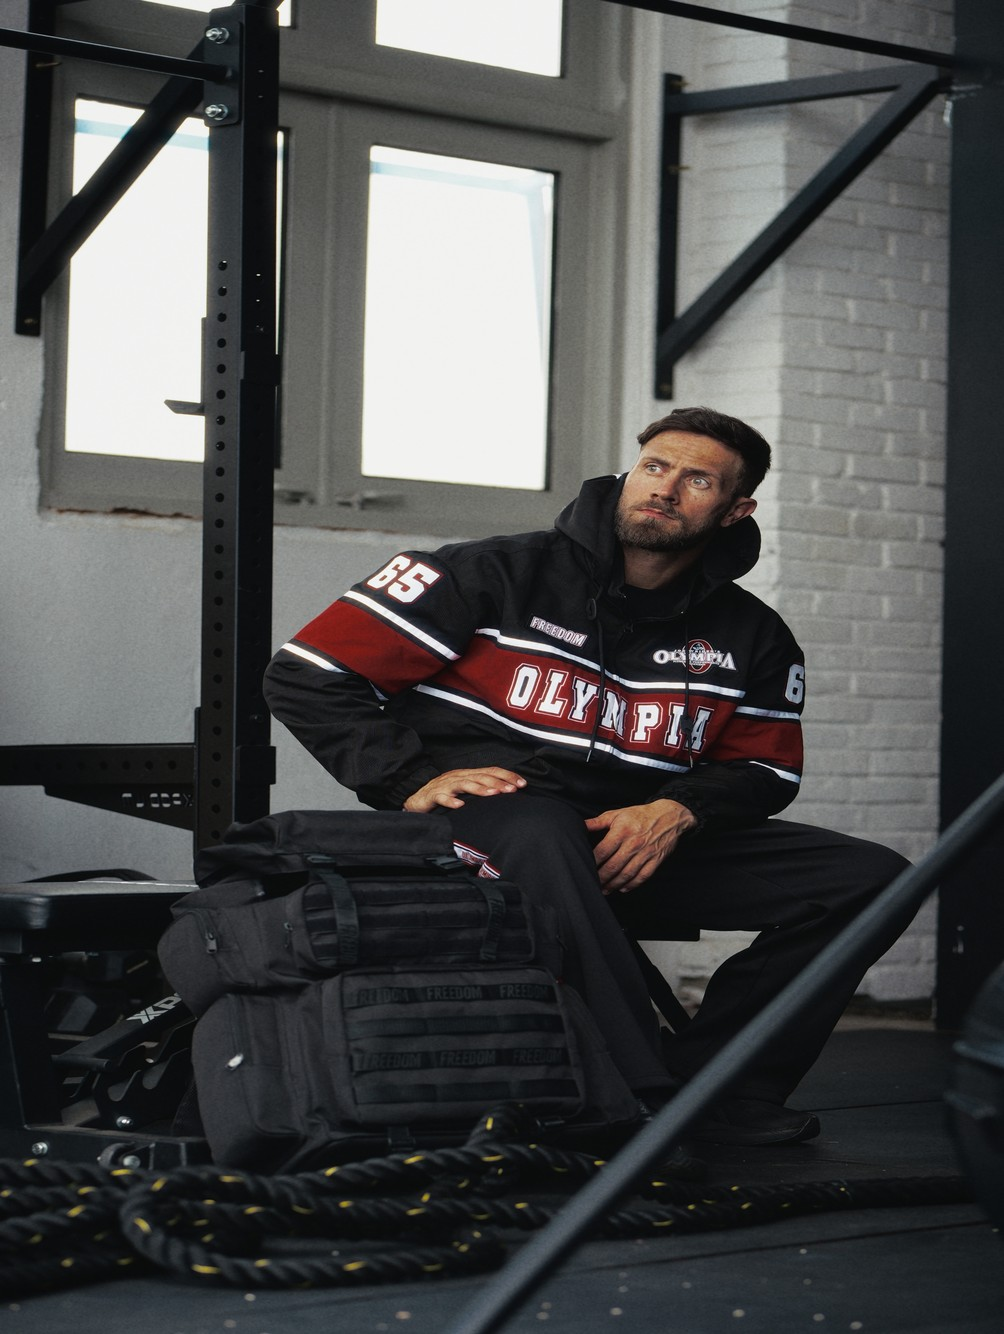
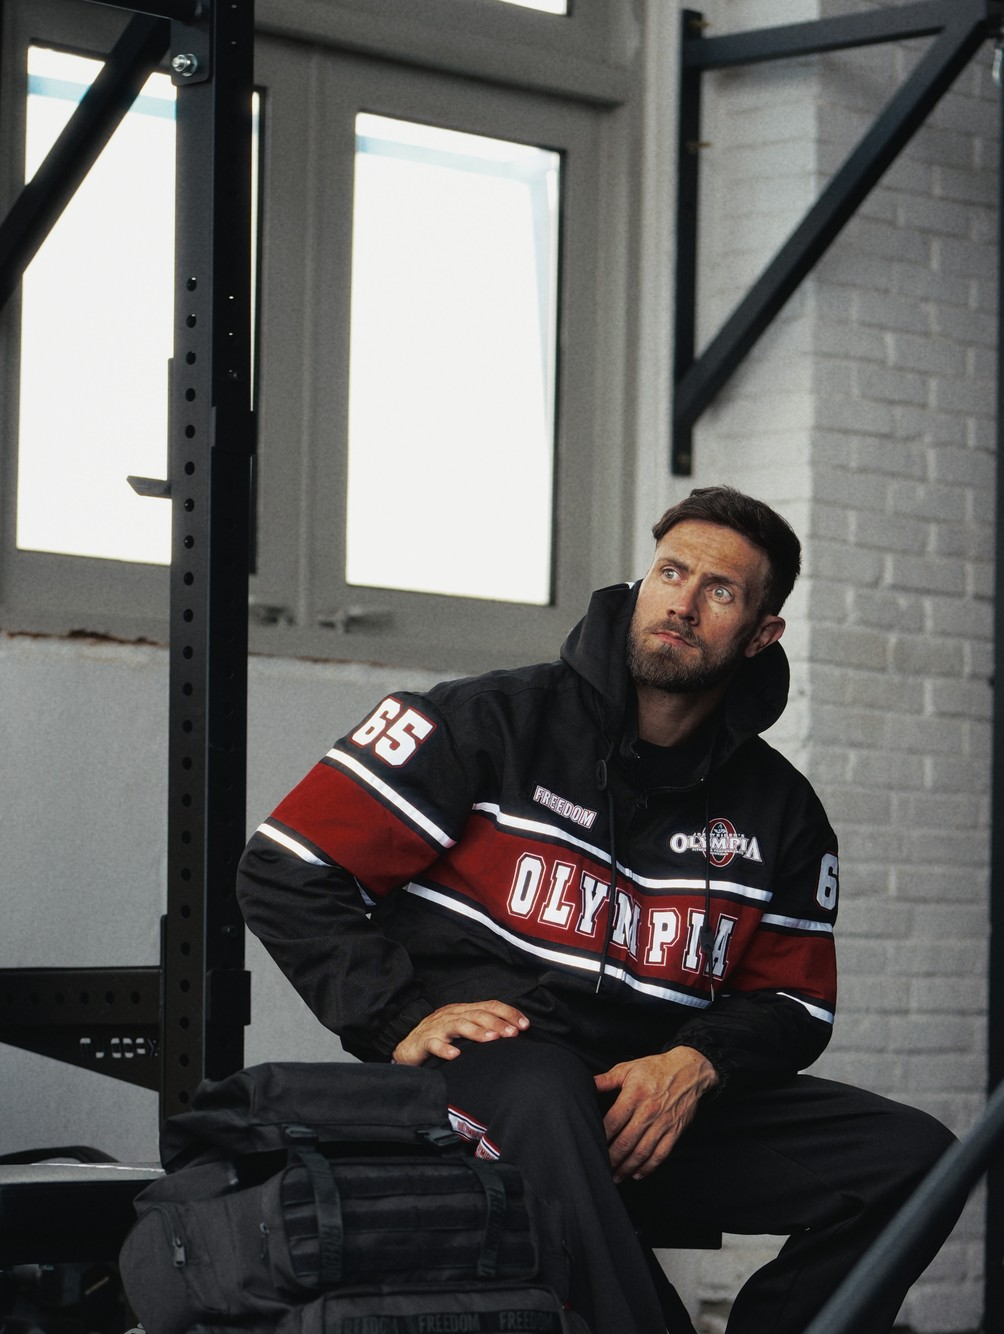
Crop Freedom image tighter, remove transform

diff --git a/mediakit.html b/mediakit.html
@@ -238,7 +238,7 @@
 
       <div class="proj-card">
         <div class="proj-img">
-          <img src="assets/proj-freedom.jpg" alt="Freedom" style="width:100%;height:100%;object-fit:cover;object-position:50% 30%;transform:scale(1.1);transform-origin:50% 30%">
+          <img src="assets/proj-freedom.jpg" alt="Freedom" style="width:100%;height:100%;object-fit:cover;object-position:50% 20%">
           <div class="proj-img-overlay"></div>
         </div>
         <div class="proj-body">
